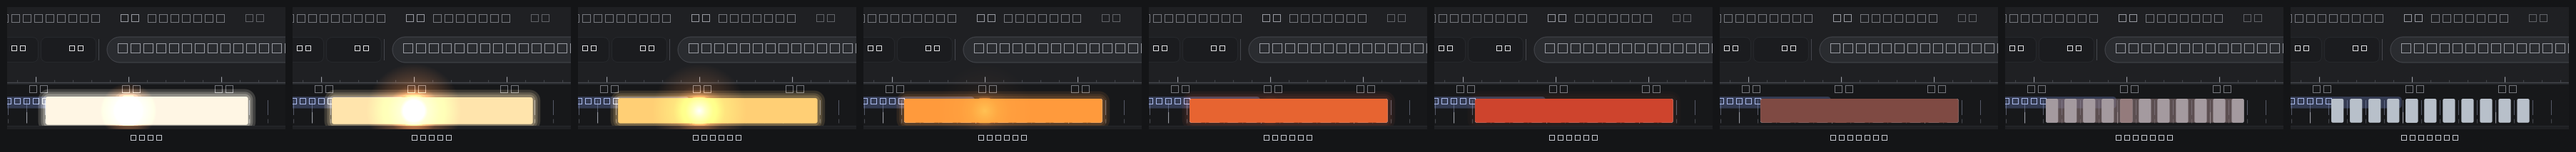
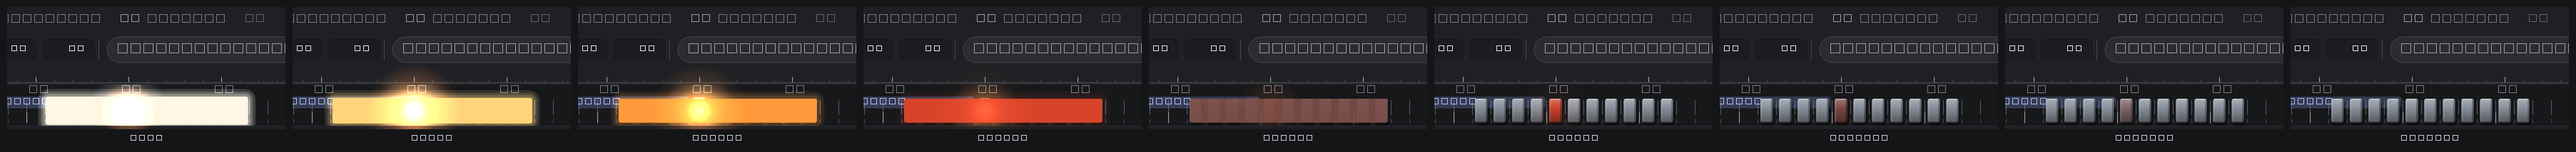
feat(time bar): steel keys are bevelled ingots with a round glow
With Steel keys a whole-frame key is drawn as the mockup's variant B: a
shadow on the track, a face lit at its top and shaded to its bottom, a light
left and dark right face, light top and dark bottom edges. Steel is darker
(#8a929c). A hot, hovered or reached steel key glows with a round added light.
The active layer lane's keys are ingots too.

diff --git a/SkeldarAnim/maya_timebar/bar.py b/SkeldarAnim/maya_timebar/bar.py
@@ -282,6 +282,55 @@ def classes():
             halos[key] = picture
         return picture
 
+    def ingot(p, rect, hex_, ui, shadow=True):
+        """A steel key on a whole frame (2026-10-20, the mockup's «фаска»): a bevelled bar -
+        a soft shadow under it, the face lit at its top and shaded to its bottom, a light
+        left face and a dark right one, a light top edge and a dark bottom edge."""
+        x, y, w, h = rect.x(), rect.y(), rect.width(), rect.height()
+        if w <= 0 or h <= 0:
+            return
+        r = min(2.0 * ui, w * 0.2)
+        p.setPen(Qt.NoPen)
+        if shadow:
+            p.setBrush(colour("#000000", 255 * look.INGOT_SHADOW * 0.35))
+            p.drawRoundedRect(rect.translated(ui, 2 * ui).adjusted(-0.5 * ui, -0.5 * ui, 0.5 * ui, 0.5 * ui),
+                              r + 0.5 * ui, r + 0.5 * ui)
+            p.setBrush(colour("#000000", 255 * look.INGOT_SHADOW * 0.6))
+            p.drawRoundedRect(rect.translated(ui, 2 * ui), r, r)
+        top, mid, bottom = look.ingot_shades(hex_)
+        g = QtGui.QLinearGradient(0.0, y, 0.0, y + h)
+        g.setColorAt(0.0, colour(top))
+        g.setColorAt(look.INGOT_MID, colour(mid))
+        g.setColorAt(1.0, colour(bottom))
+        p.setBrush(QtGui.QBrush(g))
+        p.drawRoundedRect(rect, r, r)
+        side = look.ingot_side(w, ui)
+        line = max(1.0, 0.75 * ui)
+        if h > 2 * line:
+            p.fillRect(QtCore.QRectF(x, y + line, side, h - 2 * line),
+                       colour("#ffffff", 255 * look.INGOT_SIDE[0]))
+            p.fillRect(QtCore.QRectF(x + w - side, y + line, side, h - 2 * line),
+                       colour("#000000", 255 * look.INGOT_SIDE[1]))
+        if w > side * 1.2:
+            p.fillRect(QtCore.QRectF(x + side * 0.6, y, w - side * 1.2, line),
+                       colour("#ffffff", 255 * look.INGOT_EDGE[0]))
+            p.fillRect(QtCore.QRectF(x + side * 0.5, y + h - line, w - side, line),
+                       colour("#000000", 255 * look.INGOT_EDGE[1]))
+
+    def ingot_glow(p, rect, hex_, level):
+        """A steel key's glow (the mockup's): a round soft light in its colour, as added
+        light, `level` its strength (look.steel_glow)."""
+        if level <= 0.01:
+            return
+        c = rect.center()
+        reach = max(rect.width(), rect.height()) * look.STEEL_GLOW_REACH
+        g = QtGui.QRadialGradient(c, reach)
+        g.setColorAt(0.0, colour(hex_, 255 * min(1.0, level)))
+        g.setColorAt(1.0, colour(hex_, 0))
+        p.setCompositionMode(QtGui.QPainter.CompositionMode_Plus)
+        p.fillRect(QtCore.QRectF(c.x() - reach, c.y() - reach, 2 * reach, 2 * reach), QtGui.QBrush(g))
+        p.setCompositionMode(QtGui.QPainter.CompositionMode_SourceOver)
+
     def add_key(path, x, h, ui, whole, width=None, cell=None, grow=0.0):
         """A key's mark into `path`: on a whole frame its frame's cell filled, with a
         gap between neighbours (`cell`, px a frame; the animator's mockup, 2026-10-17),
@@ -1105,11 +1154,21 @@ def classes():
                     #  a copy S put down stands where its key is dragged: under the default
                     #  odd-even fill two equal shapes cancel out (2026-10-19)
                     path.setFillRule(Qt.WindingFill)
+                    bars = []                    # Steel keys: each whole-frame key an ingot
+                    top, bottom = key_span(h, ui)
                     for frame in frames:
                         for shown in (look.shown_at(frame, *moving) if moving else (frame,)):
                             if t.v0 - 1 <= shown <= t.v1 + 2:
-                                add_key(path, t.x(shown), h, ui, look.on_frame(shown), cell=t.scale)
+                                whole = look.on_frame(shown)
+                                if st.steel and whole and t.cells:
+                                    bars.append(QtCore.QRectF(
+                                        *look.key_cell(t.x(shown), t.scale, top, bottom, ui)))
+                                else:
+                                    add_key(path, t.x(shown), h, ui, whole, cell=t.scale)
                     p.fillPath(path, colour(hex_))
+                    for rect in bars:
+                        ingot(p, rect, hex_, ui)
+                    p.setPen(Qt.NoPen)
             # the highlight's first and last frame, over the ruler (2026-10-20)
             if sel:
                 draw_span_labels(p, t, sel, 1.5 * ui, w, ui, tk)
@@ -1208,6 +1267,13 @@ def classes():
                     rect = QtCore.QRectF(l - grow, tp - grow, cw + 2 * grow, ch + 2 * grow)
                 else:
                     rect = QtCore.QRectF(x - kw / 2, top, kw, bottom - top)
+                if st.steel and whole:
+                    #  a steel ingot: the mockup's round glow, then the bevelled bar
+                    p.setOpacity(opacity * burst)
+                    ingot_glow(p, rect, hex_, look.steel_glow(heat, max(self.key_lift.get(frame, 0.0), lit)))
+                    face = hex_ if tint <= 0.01 else blend(hex_, RIM, tint * 0.7).name()
+                    ingot(p, rect, face, ui, shadow=False)
+                    continue
                 if lift > 0.01:
                     picture = halo(hex_, ui)
                     grow = 4.5 * ui * z / (1.0 + KEY_LIFT)
@@ -2781,7 +2847,7 @@ def classes():
 
     global _KIT
     _KIT = types.SimpleNamespace(colour=colour, blend=blend, draw_glyph=draw_glyph, glow=glow,
-                                 halo=halo, soft_dot=soft_dot,
+                                 halo=halo, soft_dot=soft_dot, ingot=ingot, ingot_glow=ingot_glow,
                                  draw_span_labels=draw_span_labels)
     return Strip, Timeline, RangeBlock, Pill
 

diff --git a/SkeldarAnim/maya_timebar/look.py b/SkeldarAnim/maya_timebar/look.py
@@ -891,7 +891,7 @@ def sparks(seed, count, age_ms, ms, speed, gravity, spread=360.0):
 # cools into steel, as forged steel does: white heat, yellow, orange, cherry red, a dark
 # temper, then the cold metal.
 STEEL_VAR = "skeldarTimeBarSteelKeys"
-STEEL = "#b8c0ca"
+STEEL = "#8a929c"       # a darker steel since the ingots (was #b8c0ca, flat)
 COOL_MS = 1800          # a key set is steel again after this
 COOL_STEPS = 48         # the cooling in this many colours (the key glow caches one picture each)
 HEAT = ((0.00, "#fff6e4"),      # white heat
@@ -967,3 +967,41 @@ def cooling(age_ms, steel=STEEL, cool_ms=COOL_MS):
         hex_ = steel
     heat = max(0.0, 1.0 - u / 0.7) ** 1.5
     return hex_, heat
+
+
+# Steel ingots (2026-10-20, «ключи ... более похожим на стальные слитки ... объема ... не
+# такими светлыми»; the mockup's variant B, «фаска»): with Steel keys a key on a whole frame is
+# a bevelled bar - its face lit at the top and shaded to the bottom, a light left face and a
+# dark right one, a light top edge and a dark bottom edge, a soft shadow under it on the track -
+# and a hot or lit key glows round, as added light.
+INGOT_TOP = 0.28        # the face's top: lightened this much toward white
+INGOT_MID = 0.35        # ... the plain colour this far down
+INGOT_BOTTOM = 0.40     # ... its bottom: darkened this much toward black
+INGOT_SIDE = (0.10, 0.28)       # the left face's white, the right face's black (alpha)
+INGOT_EDGE = (0.50, 0.50)       # the top edge's white, the bottom edge's black (alpha)
+INGOT_SHADOW = 0.55     # the shadow's black under a key (alpha), 1 px right and 2 down
+STEEL_GLOW = 0.55       # a glow's strength at heat 1
+STEEL_GLOW_REACH = 1.4  # its radius, the key's longer side times this
+STEEL_GLOW_LIFT = 0.18  # a key under the mouse or reached glows as at this much heat
+
+
+def toward(hex_, other, u):
+    """`hex_` moved `u` of the way to `other` (both '#rrggbb')."""
+    a, b = _rgb(hex_), _rgb(other)
+    u = max(0.0, min(1.0, u))
+    return "#%02x%02x%02x" % tuple(int(round(x + (y - x) * u)) for x, y in zip(a, b))
+
+
+def ingot_shades(hex_):
+    """(top, middle, bottom) colours of an ingot's face of colour `hex_`."""
+    return (toward(hex_, "#ffffff", INGOT_TOP), hex_, toward(hex_, "#000000", INGOT_BOTTOM))
+
+
+def ingot_side(width, ui=1.0):
+    """The width of an ingot's side faces: a seventh of the key, 0.75..2 logical px."""
+    return max(0.75 * ui, min(2.0 * ui, width * 0.14))
+
+
+def steel_glow(heat, lift):
+    """A steel key's glow strength: its heat, plus a little when under the mouse or reached."""
+    return STEEL_GLOW * min(1.0, max(0.0, heat) + STEEL_GLOW_LIFT * max(0.0, lift))

diff --git a/SkeldarAnim/maya_timebar/layerpanel.py b/SkeldarAnim/maya_timebar/layerpanel.py
@@ -2329,7 +2329,14 @@ def _classes():
                 return colour(tk["faint"])
             return colour(tk["muted"])
 
-        def _keys(self, p, t, lane, frames, ui):
+        def _ingot_hex(self, row):
+            """The active lane's colour when its keys are steel ingots (Steel keys,
+            2026-10-20), else None."""
+            if row.get("active") and getattr(self.panel.strip, "steel", False):
+                return self._active_hex()
+            return None
+
+        def _keys(self, p, t, lane, frames, ui, ingot_hex=None):
             """Each key its own rounded rect: one path of hundreds of rounded rects fills
             ~30x slower in Qt (9 ms against 0.3 for 200 keys, measured 2026-10-19 - the lanes
             drag dropped to 10 frames a second). Each frame once."""
@@ -2339,7 +2346,13 @@ def _classes():
                 if not (t.v0 - 1 <= frame <= t.v1 + 1) or round(frame, 4) in drawn:
                     continue
                 drawn.add(round(frame, 4))
-                p.drawRoundedRect(_key_rect(t, frame, top, bottom, ui, 1.0), 1.5 * ui, 1.5 * ui)
+                rect = _key_rect(t, frame, top, bottom, ui, 1.0)
+                if ingot_hex and t.cells and look.on_frame(frame):
+                    brush = p.brush()
+                    k.ingot(p, rect, ingot_hex, ui)
+                    p.setBrush(brush)
+                    continue
+                p.drawRoundedRect(rect, 1.5 * ui, 1.5 * ui)
 
         def _block(self, p, t, lane, span, ui):
             a, b = span
@@ -2404,7 +2417,7 @@ def _classes():
                 if carried:                      # drawn where the drag has them, over the picture
                     keys = [k for k in keys if not look.inside(k, view["span"])]
                 p.setBrush(self._key_colour(row))
-                self._keys(p, t, lane, keys, ui)
+                self._keys(p, t, lane, keys, ui, self._ingot_hex(row))
                 wkeys = row.get("weight_keys") or ()
                 if mine and dragging:            # a dragged L key moves with the block
                     wkeys = [k for k in wkeys if not look.inside(k, (sel["a"], sel["b"]))]
@@ -2464,7 +2477,7 @@ def _classes():
                         #  where the drag has it, and a copy S put down where it went down
                         frames.extend(look.shown_at(key, span, preview, carried))
                 p.setBrush(self._key_colour(row))
-                self._keys(p, t, lane, frames, ui)
+                self._keys(p, t, lane, frames, ui, self._ingot_hex(row))
                 p.restore()
             p.restore()
 

diff --git a/tests/test_timebar_bar.py b/tests/test_timebar_bar.py
@@ -1447,6 +1447,36 @@ class SteelKeys(Strip):
         self.strip.set_steel(False)
         self.assertTrue(self.near(self.pixel(30.0), maya_hubstyle.TOKENS["accent"]))
 
+    def column(self, frame):
+        """The key's middle column, top to bottom, inside its own span."""
+        t = self.tl.track()
+        image = self.tl.grab().toImage()
+        x = int(t.x(frame) + t.scale / 2.0)
+        top, bottom = bar.key_span(self.tl.height(), 1.0)
+        return [image.pixelColor(x, y) for y in range(int(top) + 2, int(bottom) - 2)]
+
+    def test_a_steel_key_is_an_ingot_lit_at_its_top_and_shaded_to_its_bottom(self):
+        flat = self.column(30.0)
+        self.assertEqual(len({c.rgb() for c in flat}), 1, "the accent key is flat")
+        self.strip.set_steel(True)
+        col = self.column(30.0)
+        upper, lower = col[1], col[-2]
+        self.assertGreater(upper.lightness(), lower.lightness() + 25, "lit top, shaded bottom")
+        self.assertGreater(len({c.rgb() for c in col}), 4, "a gradient, not one colour")
+
+    def test_a_steel_key_has_a_light_left_face_and_a_dark_right_one(self):
+        self.strip.set_steel(True)
+        t = self.tl.track()
+        image = self.tl.grab().toImage()
+        top, bottom = bar.key_span(self.tl.height(), 1.0)
+        l, tp, w, h = look.key_cell(t.x(30.0), t.scale, top, bottom, 1.0)
+        y = int(tp + h * 0.5)
+        #  a pixel inside each edge (the edge pixel itself is antialiased into the track)
+        left, mid = image.pixelColor(int(l) + 1, y), image.pixelColor(int(l + w / 2.0), y)
+        right = image.pixelColor(int(l + w) - 1, y)
+        self.assertGreater(left.lightness(), mid.lightness() + 5)
+        self.assertLess(right.lightness(), mid.lightness() - 15)
+
     def set_key(self):
         self.strip.set_steel(True)
         start = self.strip.clock()

diff --git a/tests/test_timebar_look.py b/tests/test_timebar_look.py
@@ -623,6 +623,30 @@ class SpanLabelTests(unittest.TestCase):
         self.assertEqual((a, b), (95, None))
 
 
+class IngotTests(unittest.TestCase):
+    """Steel keys as ingots (2026-10-20, the mockup's «фаска»)."""
+
+    def test_the_face_is_lit_at_the_top_and_shaded_at_the_bottom(self):
+        top, mid, bottom = look.ingot_shades(look.STEEL)
+        self.assertEqual(mid, look.STEEL)
+        self.assertGreater(sum(look._rgb(top)), sum(look._rgb(mid)))
+        self.assertLess(sum(look._rgb(bottom)), sum(look._rgb(mid)))
+
+    def test_steel_is_darker_than_the_flat_key_was(self):
+        self.assertLess(sum(look._rgb(look.STEEL)), sum(look._rgb("#b8c0ca")))
+
+    def test_the_side_faces_stay_between_three_quarters_and_two_px(self):
+        self.assertEqual(look.ingot_side(1.0), 0.75)
+        self.assertEqual(look.ingot_side(100.0), 2.0)
+        self.assertAlmostEqual(look.ingot_side(10.0), 1.4)
+
+    def test_the_glow_grows_with_heat_and_a_little_with_a_lift(self):
+        self.assertEqual(look.steel_glow(0.0, 0.0), 0.0)
+        self.assertAlmostEqual(look.steel_glow(1.0, 0.0), look.STEEL_GLOW)
+        self.assertAlmostEqual(look.steel_glow(0.0, 1.0), look.STEEL_GLOW * look.STEEL_GLOW_LIFT)
+        self.assertAlmostEqual(look.steel_glow(1.0, 1.0), look.STEEL_GLOW)
+
+
 class CoolingTests(unittest.TestCase):
     """Steel keys (2026-10-20): a key set glows hot and cools into steel."""
 

diff --git a/CLAUDE.md b/CLAUDE.md
@@ -12121,6 +12121,23 @@ Filmstrip `time_bar_steel_plate.png` (`render_time_bar_steel.py`). Tests
 `test_timebar_look.CoolingTests`, `test_timebar_bar.SteelKeys`, the hub menu test; filmstrip
 `render_time_bar_steel.py` -> `time_bar_steel.png`. Not seen in a GUI Maya.
 
+**…steel keys are ingots** (2026-10-20, «более похожим на стальные слитки. Добавим им какого-то объема
+и можем сделаем не такими светлыми»; six live mockups, https://claude.ai/artifact/Nyi43XCgehZfSv15cMq3ww,
+they chose **B, «фаска»**, «глоу тут хороший»). With Steel keys a key on a whole frame is a bevelled bar
+(`bar.ingot`, on the kit for the lanes):
+- a soft shadow under it on the track;
+- the face lit at its top (`INGOT_TOP` 0.28 toward white), its colour at `INGOT_MID` 0.35 and shaded to
+  its bottom (`INGOT_BOTTOM` 0.40 toward black);
+- a light left face and a dark right one (`ingot_side`: a seventh of the key, 0.75..2 px);
+- a light top edge and a dark bottom edge.
+`look.STEEL` is darker: #8a929c (was #b8c0ca); the cooling ends there. A hot, hovered or reached
+steel key glows as the mockup did (`bar.ingot_glow`): a round radial light in its colour, added, its
+radius `STEEL_GLOW_REACH` 1.4 times the key's longer side, strength `look.steel_glow(heat, lift)`. The
+plain halo is gone for those keys. The orange keys, breakdowns off steel, and a key between frames (a
+dashed line) are unchanged; breakdowns become ingots in cyan with Steel keys on. The layer panel's
+ACTIVE lane draws its keys as ingots too (`Lanes._ingot_hex`). Tests `test_timebar_look.IngotTests`,
+`SteelKeys.test_a_steel_key_is_an_ingot...` / `..._light_left_face...`. Not seen in a GUI Maya.
+
 271. **Python painting element by element costs more than the drawing.** The Time Bar's paint called
      drawRect / drawRoundedRect ~1700 times a frame (a waveform bin, a tick, a key each) and cProfile put 2.6
      of its 6 ms in the Python loop itself. What does not change between two frames belongs in a cached
